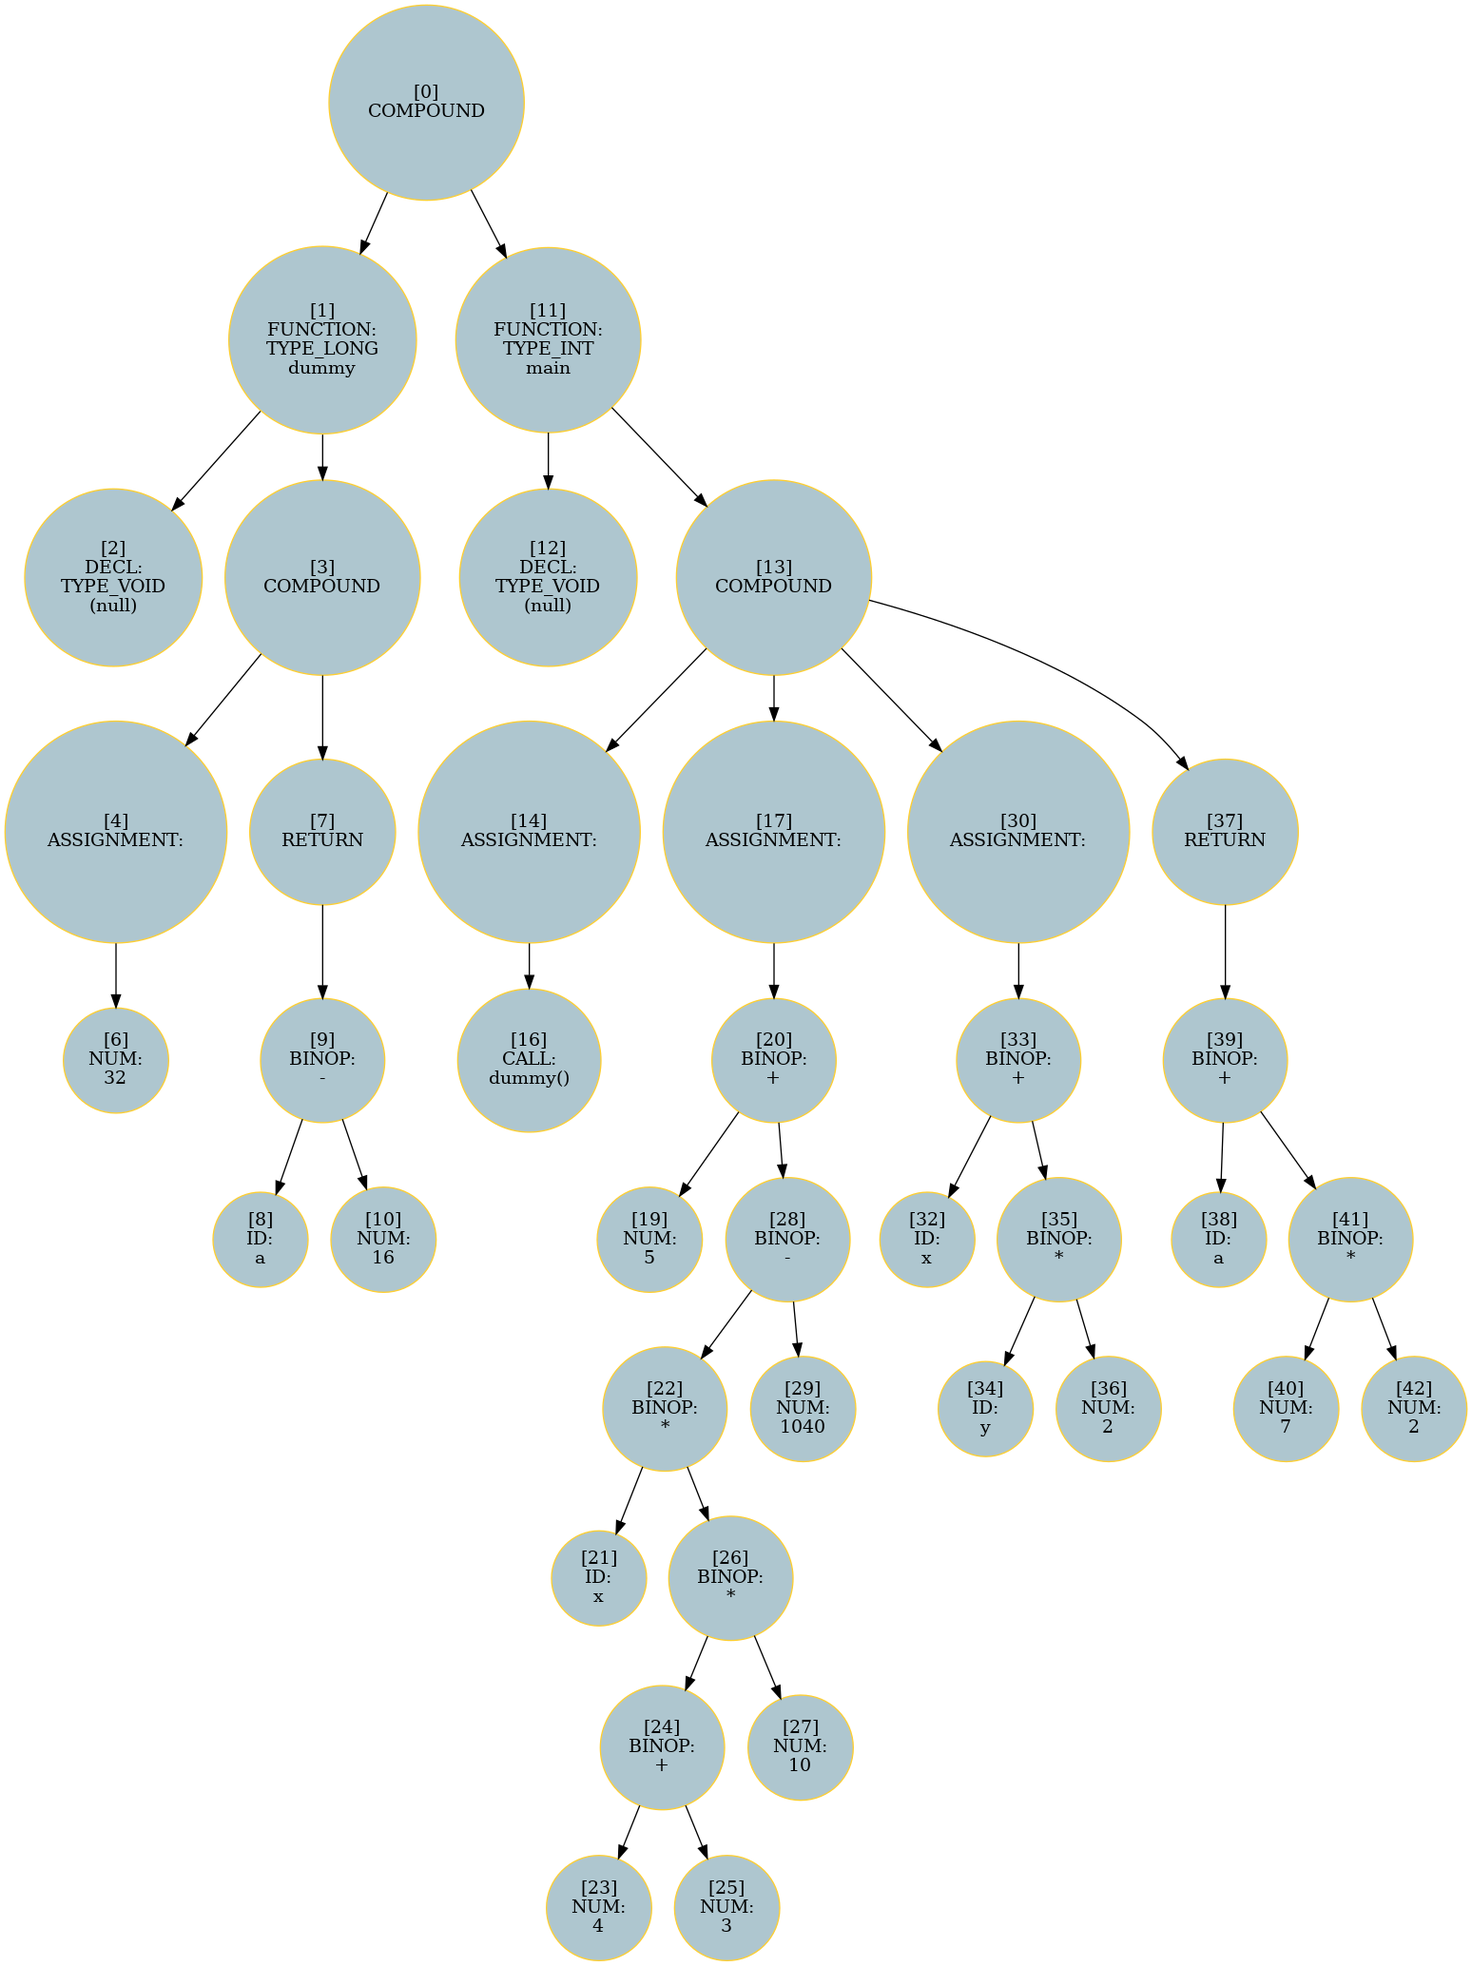
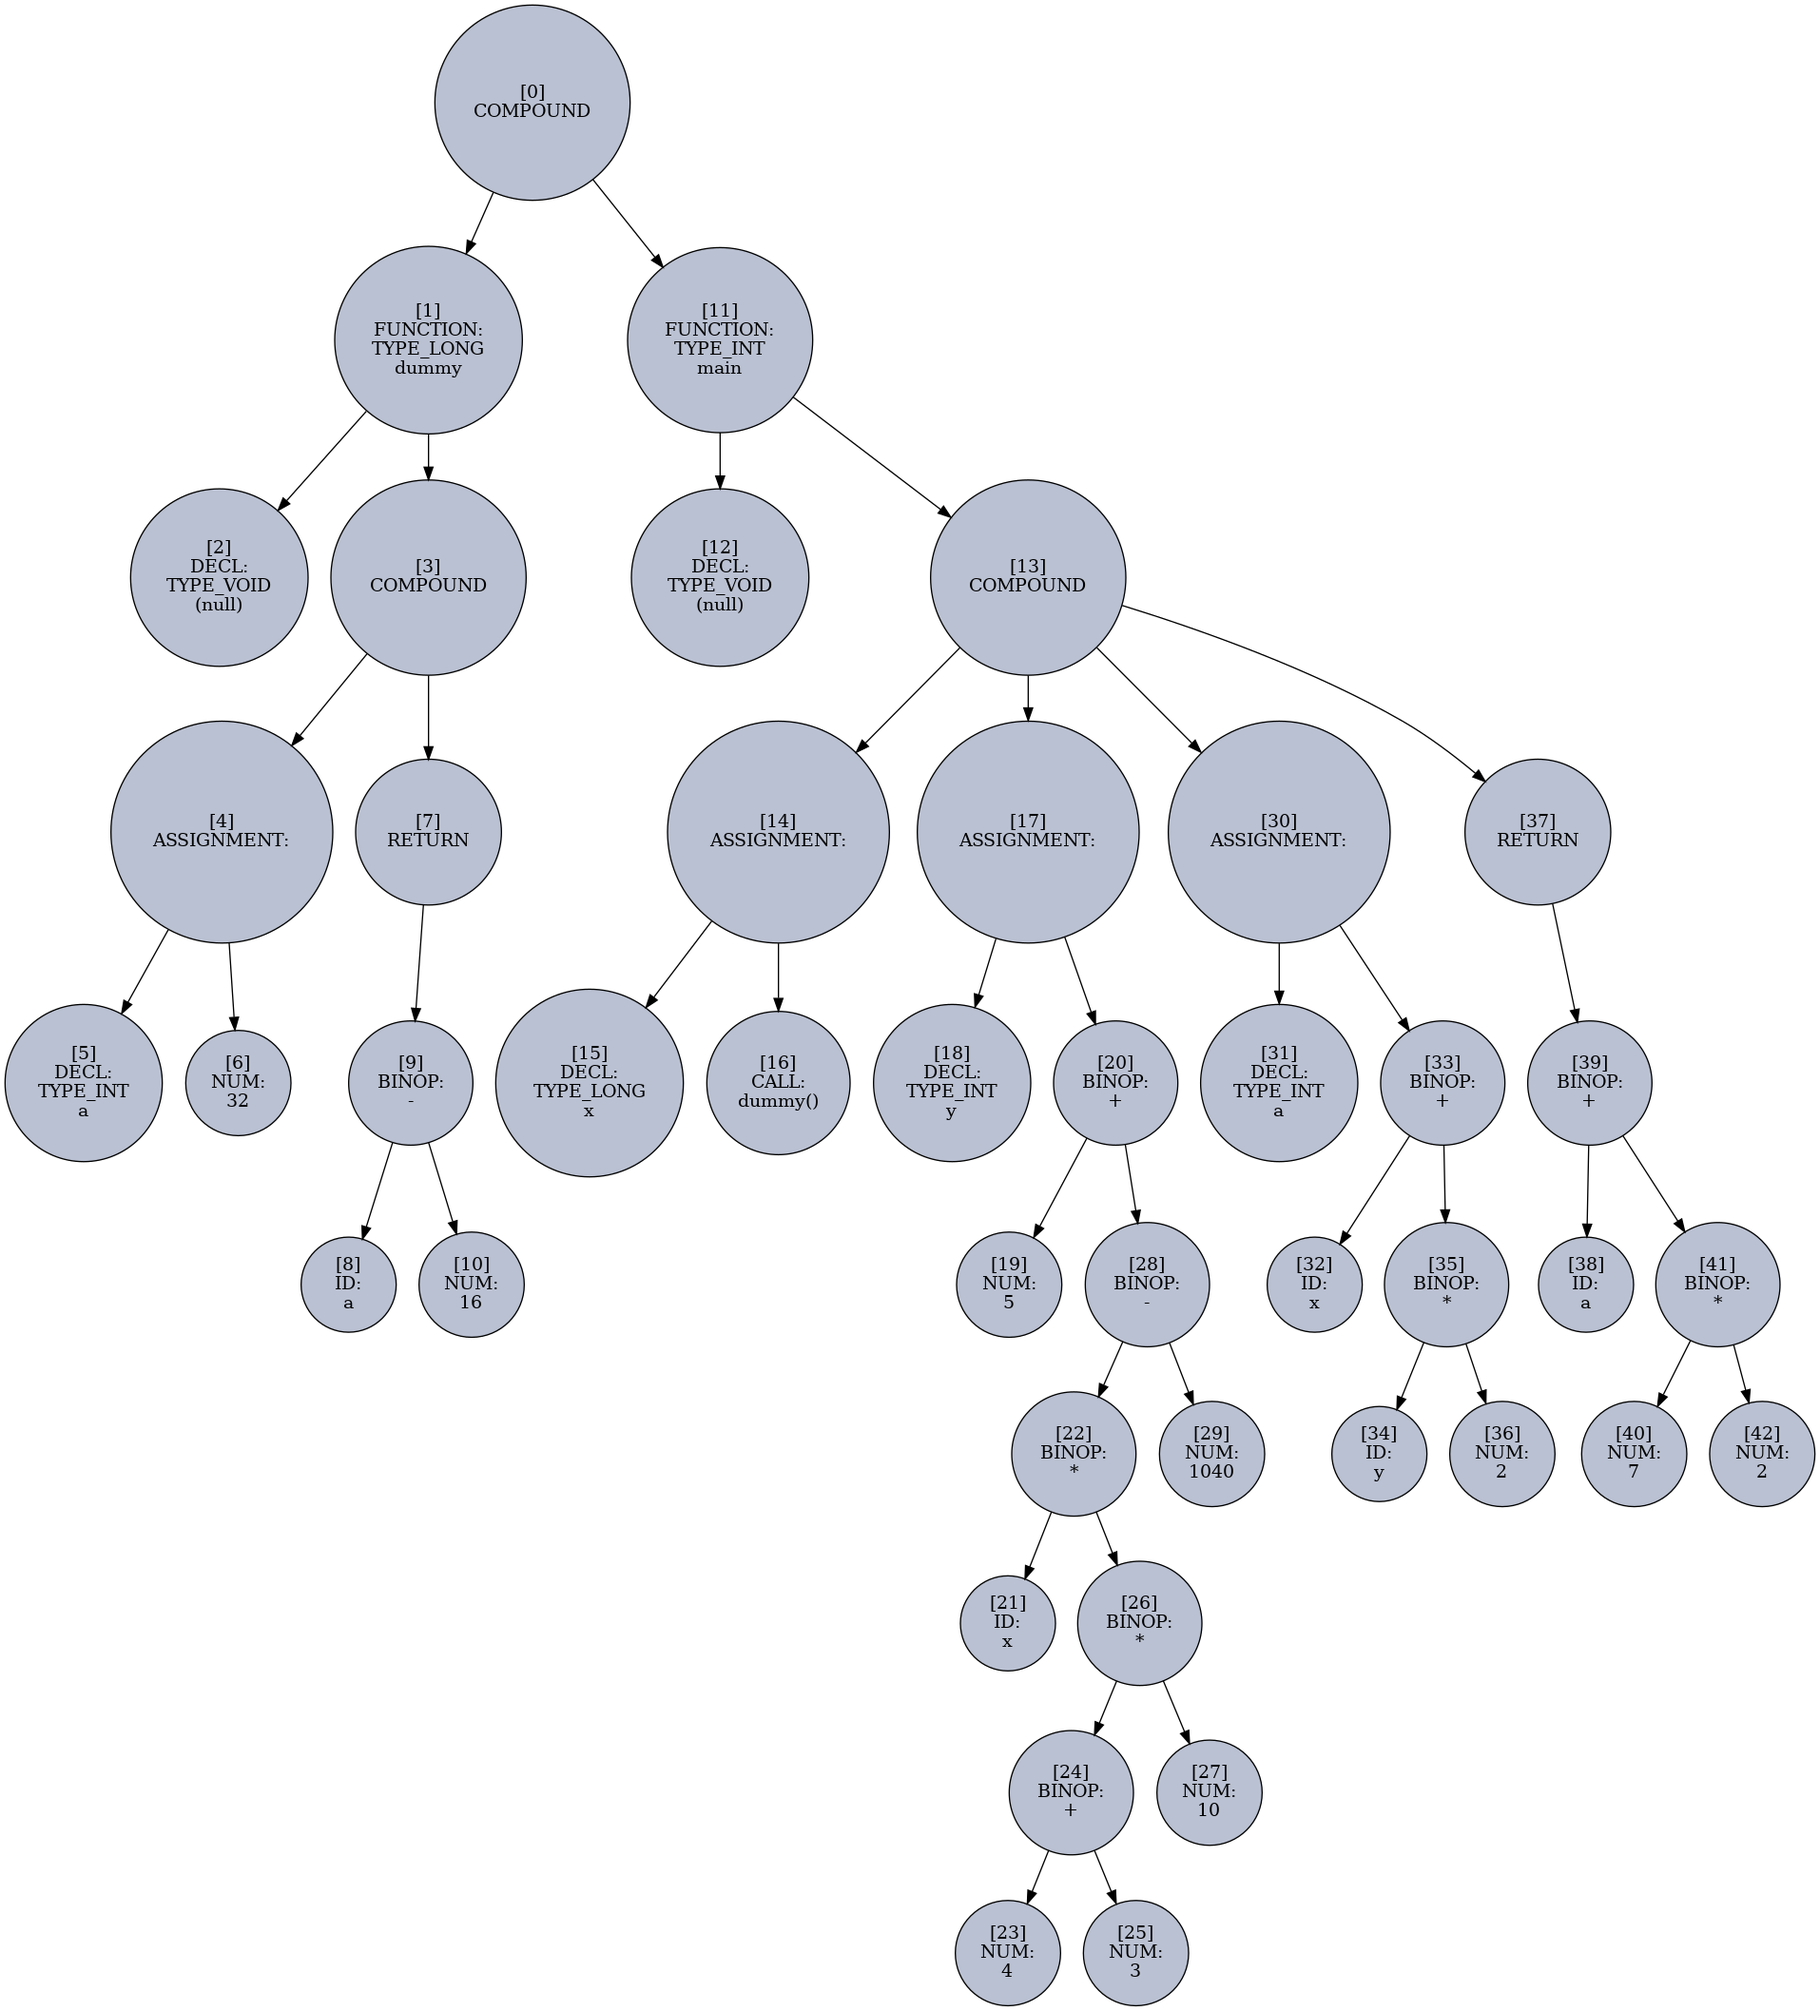
gitignore & cleanup

Changed region(s): [[0.0, 0.0, 1.0, 1.0], [0.3101, 0.0, 0.3411, 0.0309]]

diff --git a/src/util.c b/src/util.c
@@ -39,7 +39,8 @@ char *format(AST_t *node)
       strcpy(buf+strlen(buf), "COMPOUND,");
       break;
     case AST_ASSIGNMENT:
-      strcpy(buf+strlen(buf), "ASSIGNMENT:,");
+      if (node->name == NULL) strcpy(buf+strlen(buf), "ASSIGNMENT:,");
+      else snprintf(buf+strlen(buf), sz, "ASSIGNMENT: %s,", node->name);
       break;
     default: error_exit("format() - default reached\n");
   }
@@ -52,6 +53,7 @@ void make_ast_graph(AST_t *root)
   assert(root != NULL && "create_ast_file - root is NULL");
   List_t *list = init_list(sizeof(char *));   // data to write to file
   List_t *queue = init_list(sizeof(AST_t *)); // queue to iterate on
+  List_t *annot = init_list(sizeof(char *)); // TODO: build annotations for arrows
   list_push(queue, root);
   while (queue->size) {
     AST_t *node = (AST_t *)list_getitem(queue, 0);
@@ -60,9 +62,10 @@ void make_ast_graph(AST_t *root)
     if (node == NULL) continue;
     switch (node->node_type) {
       // terminals
-      case AST_DECL:
       case AST_NUM:
       case AST_ID:
+      case AST_DECL:
+      case AST_CALL:
         break;
       case AST_BINOP:
         list_push(list, format(node->left));
@@ -90,9 +93,11 @@ void make_ast_graph(AST_t *root)
         list_push(list, format(node->value));
         list_push(queue, node->value);
         break;
-      case AST_CALL:
-        break;
       case AST_ASSIGNMENT:
+        if (node->decl != NULL) {
+          list_push(list, format(node->decl));
+          list_push(queue, node->decl);
+        }
         list_push(list, format(node->value));
         list_push(queue, node->value);
         break;

diff --git a/pyutil/plot.py b/pyutil/plot.py
@@ -5,7 +5,6 @@ from dsplot.graph import Graph
 import webbrowser
 
 def create_program_graph(fname):
-  print(f'[*] Creating graph for: {fname}')
   with open(fname, 'r') as f:
     lines = [l.strip() for l in f.readlines()]
   # formatting
@@ -15,7 +14,7 @@ def create_program_graph(fname):
   tree = {line[0]:line[1:] for line in lines}
   graph = Graph(tree, directed=True)
   outname = f'{fname[:-4]}_graph.png'
-  graph.plot(output_path=outname, orientation='UD', border_color='#FFCE30', fill_color='#aec6cf')
+  graph.plot(output_path=outname, orientation='UD', fill_color='#BAC1D2')
   webbrowser.open(outname)
 
     
